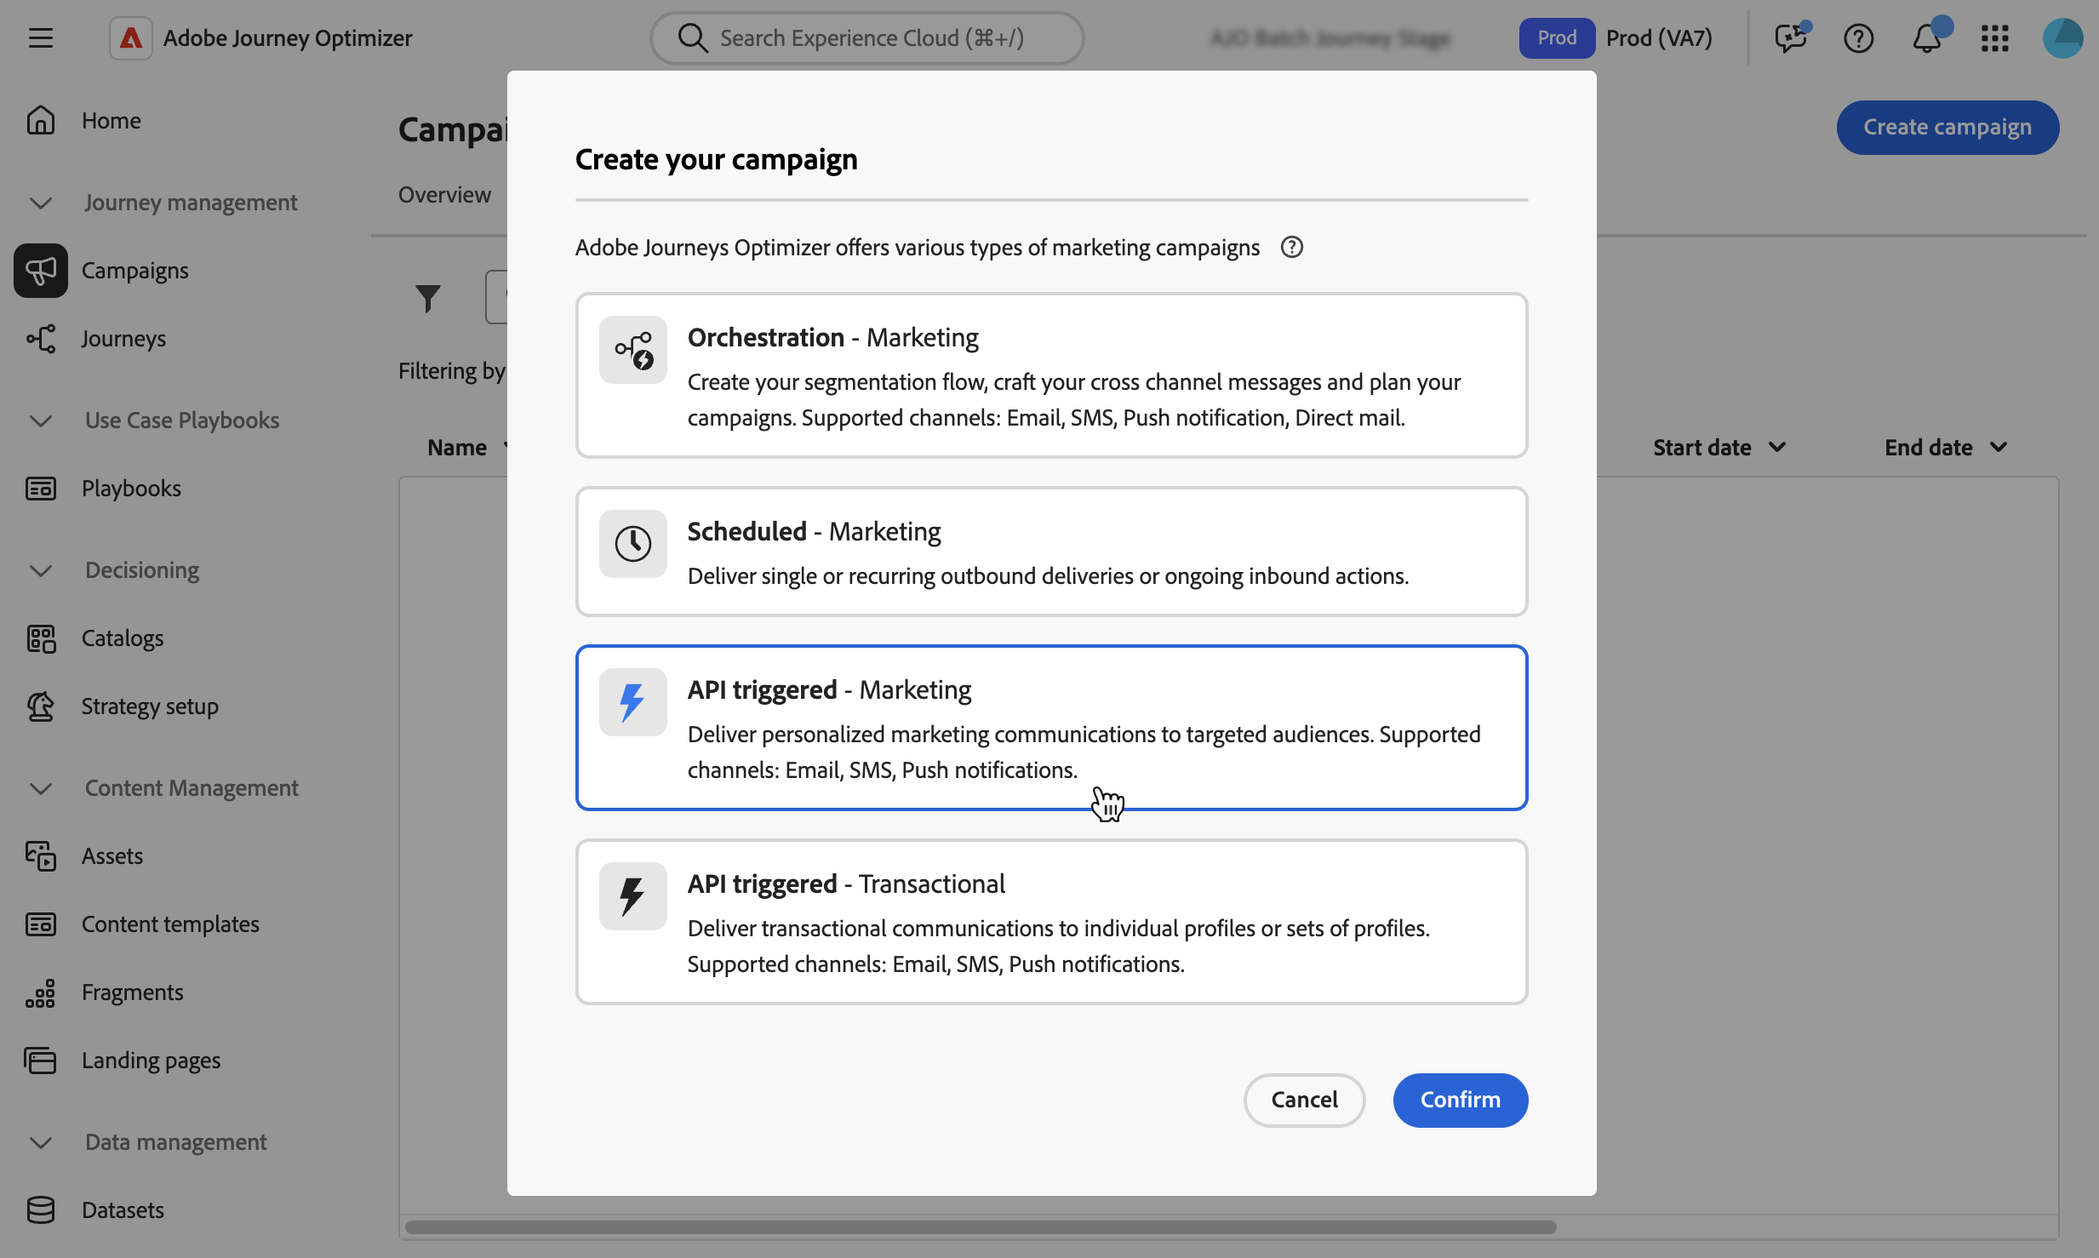
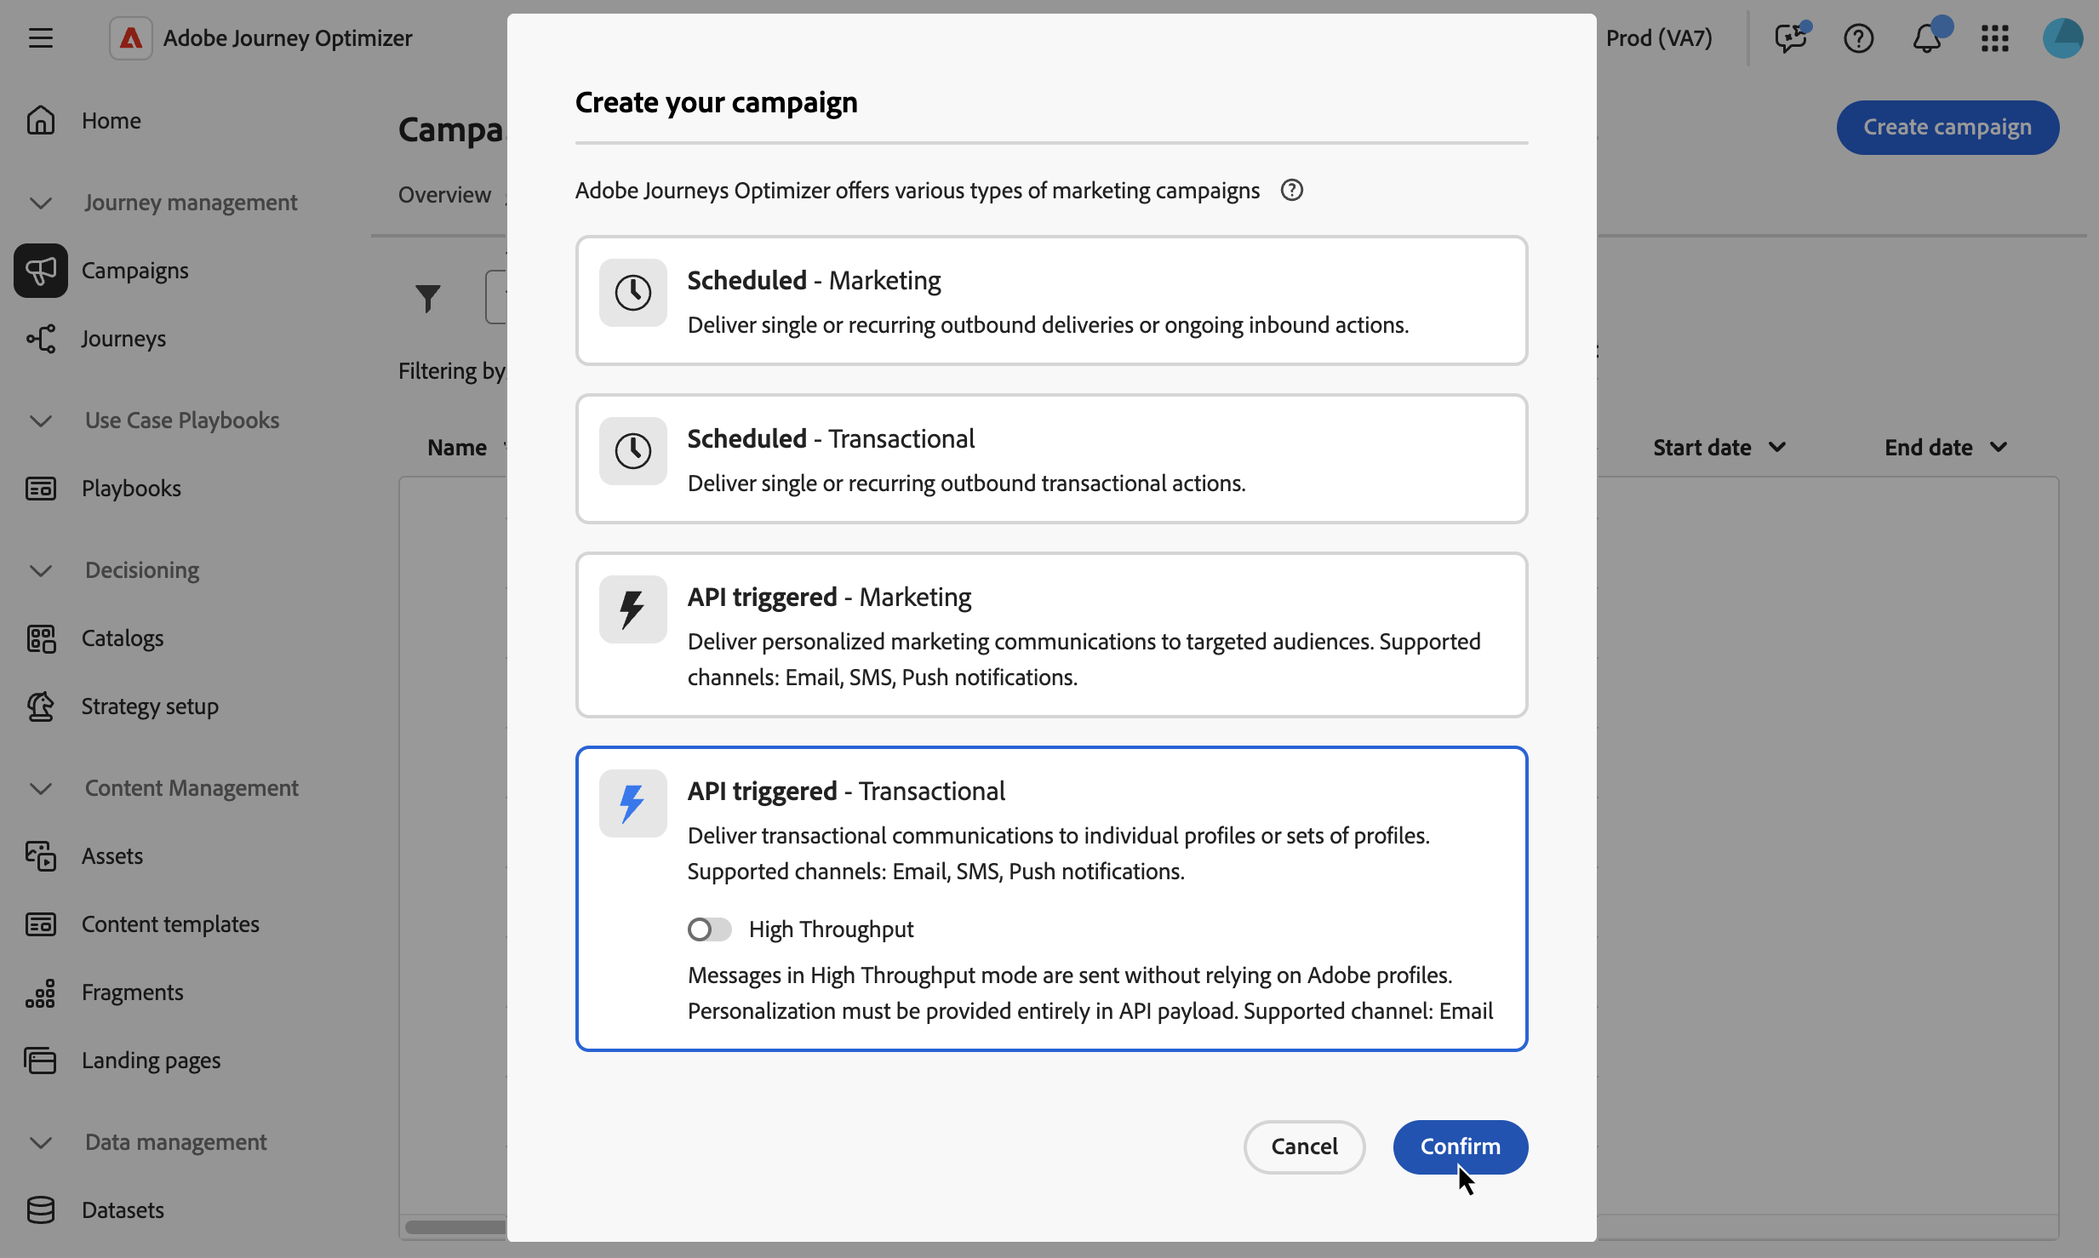
Docac 11522 api triggered throughput (#2104)
* update doc

* fix

* update

* fix

* add note

* correct api doc

* update

* update

* updates

* update

* update

* PM feedback

* update

* update

* fix

* update note

* feedback

* correct build

* update rn

---------

Changed region(s): [[0.2186, 0.0, 0.7806, 0.9959]]

diff --git a/help/using/campaigns/api-triggered-high-throughput.md b/help/using/campaigns/api-triggered-high-throughput.md
@@ -1,0 +1,77 @@
+---
+solution: Journey Optimizer
+product: journey optimizer
+title: Activate High throughput mode for API triggered campaigns
+description: Learn how to activate the High throughput mode for API triggered campaigns.
+feature: Campaigns, API
+topic: Content Management
+role: Developer
+level: Experienced
+keywords: campaigns, API-triggered, REST, optimizer, messages
+---
+
+# Activate High throughput mode for API triggered campaigns {#high-throughput}
+
+High Throughput mode is designed for organizations that need **very large-scale, real-time transactional messaging** (up to 5000 transactions per second). Unlike regular API triggered campaigns, High throughput campaigns operate independently of Adobe Profiles and require a different configuration model.  
+
+This page explains how High throughput campaigns differ from standard API triggered campaigns, setup requirements, and when to choose each mode.  
+
+## Guardrails & limitations
+
+*  **Access** - Available only in the US region for organizations licensed with the High Throughput transactional messaging add-on.
+
+* **Channels**: Currently available only for email.  
+
+* **Personalization**:  
+
+  * All personalization must be included in the API payload as **contextual data**. [Learn how to personalize content using contextual data](../campaigns/api-triggered-campaign-action.md#contextual) 
+  * Profile-based personalization is not supported. If profile variables are used, validation errors will occur.  
+
+* **API endpoint** - High Throughput campaigns use a different endpoint than standard API triggered campaigns. For details, see [Execute an API triggered campaign](../campaigns/trigger-campaigns.md#trigger).
+
+* **Campaign exclusivity**: High throughput campaigns do not use Adobe Profiles. Messages are delivered whether or not a profile exists.
+
+  Moreover, a campaign cannot be used for both profile-enabled and non-profile use cases. If you need both, create two separate campaigns, and ensure the calling system decides which one to trigger based on the context.
+
+## Choosing between standard vs. High throughput campaigns
+
+Use this table to decide which API triggered campaign type fits your use case:  
+
+| Feature / Requirement | Standard API triggered Campaign | High Throughput Campaign |
+|------------------------|---------------------------------|---------------------------|
+| **Availability** | Included in base offering | Requires High Throughput transactional messaging add-on. |
+| **Throughput** | Up to 500 transactions per second | Up to 5000 transactions per second |
+| **Channels** | Email, SMS, Push | Email |
+| **Personalization** | Profile + contextual in the API payload | Contextual in the API payload only |
+| **Profile & stitching** | Exists or gets created with events stitched to profile | No profile|
+| **Message volume** | Standard entitlement & message packs | Separate tiered message volumes|
+| **Infrastructure** | Standard | Enhanced |
+| **Uptime** | 99,9% | 99,99%|
+| **Health check API** | Yes | Yes |
+
+In other words:
+
+* Choose **Standard API triggered** campaigns if:  
+  * You don’t have High Throughput contracted.  
+  * Your throughput needs are <500 TPS.  
+  * You require personalization based on Adobe Profiles.  
+  * You want campaign data stitched to profiles for future targeting.
+  * You want to use another channel than Email.
+
+* Choose **High throughput** campaigns if:  
+  * You need throughput >500 TPS.  
+  * You don’t require profile stitching.  
+  * You can pass all personalization in the API payload.  
+  * You want to use the Email channel.  
+
+## Setup guidelines
+
+To configure High Throughput campaigns correctly, follow these guidelines: 
+
+1. Create a new IP pool. [Learn how to create IP pools](../configuration/ip-pools.md)
+1. Create a new channel configuration. [Learn how to set up channel configurations](../configuration/channel-surfaces.md)
+1. Contact Adobe Customer Care to request the activated surface to be mapped to the High throughput capability. Provide the channel configuration and IP Pool details along with your organization ID.
+
+>[!IMPORTANT]
+>
+>The IP pool and channel configurations designated for high-throughput transactional messages must be used exclusively for that purpose, and not be used with standard transactional messaging using API triggered campaigns or journeys.

diff --git a/help/using/rn/release-notes.md b/help/using/rn/release-notes.md
@@ -176,7 +176,7 @@ Because of this model, release notes are updated between monthly releases.  A de
 </tbody>
 </table-->
 
-<!--<table>
+<table>
 <thead>
 <tr>
 <th><strong>High throughput messaging for API triggered email campaigns</strong><br/></th>
@@ -185,14 +185,14 @@ Because of this model, release notes are updated between monthly releases.  A de
 <tbody>
 <tr>
 <td>
-<p>A new high throughput transactional messaging mode is available in API triggered campaigns. This mode is designed for large-scale, real-time transactional messaging and supports up to 5,000 transactions per second with higher availability. This mode also supports transactional messages without referencing or creating customer profiles, such as guest checkout, order confirmation, password resets, security notifications, and one-time passwords for two-factor authentication.</p>
+<p>A new high throughput transactional messaging mode is available in API triggered campaigns. This mode is designed for large-scale, real-time transactional messaging and supports up to 5,000 transactions per second with higher availability. This mode also supports transactional messages without referencing or creating customer profiles, such as guest checkout, order confirmation, password resets, security notifications, and other service/operational notications.</p>
 <p>This capability is only available for the email channel, for organizations that have purchased the Adobe High Throughput Transactional Messaging add-on offering. Contact your Adobe representative for more details.</p>
-<p>For more information, refer to the <a href="../campaigns/api-triggered-campaign-action.md">detailed documentation</a>.</p>
+<p>For more information, refer to the <a href="../campaigns/api-triggered-high-throughput.md">detailed documentation</a>.</p>
 <p>Availability date: October 22, 2025</p>
 </td>
 </tr>
 </tbody>
-</table>-->
+</table>
 
 <table>
 <thead>

diff --git a/help/using/campaigns/api-triggered-campaign-content.md b/help/using/campaigns/api-triggered-campaign-content.md
@@ -29,11 +29,15 @@ The content creation process depends on the channel you selected. Learn detailed
 <div align="center"><a href="../push/create-push.md"><strong>Push notification</strong></a></div></td>
 </tr></table>
 
+>[!IMPORTANT]
+>
+>[High Throughput campaigns](../campaigns/api-triggered-high-throughput.md) do not rely on Adobe profiles: all personalization must be included in the API payload as context data, as detailed below. This mode is available only for the email channel andi n the US region.
+
 ## Personalize content using contextual data {#contextual}
 
 You can pass additional data into the API payload that you can leverage to personalize your message.
 
-Let's take this example, where customers want to reset their password, and you want to send them a password reset URL that is generated in a third-party tool. With API-triggered campaigns, you can pass this generated URL into the API payload, and leverage it into the campaign to add it into the message.
+Let's take this example, where customers want to reset their password, and you want to send them a password reset URL that is generated in a third-party tool. With API triggered campaigns, you can pass this generated URL into the API payload, and leverage it into the campaign to add it into the message.
 
 To do this, you need to pass them into the API payload, and add them in your message using the personalization editor. Use the `{{context.<contextualAttribute>}}` syntax, where `<contextualAttribute>` should match the name of the variable in your API payload containing the data that you want to pass.
 

diff --git a/help/using/campaigns/get-started-with-campaigns.md b/help/using/campaigns/get-started-with-campaigns.md
@@ -51,7 +51,7 @@ exl-id: e2506a43-e4f5-48af-bd14-ab76c54b7c90
 >[!CONTEXTUALHELP]
 >id="ajo_campaigns_campaign_type"
 >title="Campaign type"
->abstract="Select the type of campaign. Available channels vary depending on the selected type. <br>**Scheduled campaigns** (Action campaigns) – Ideal for simple, one-off batch communications that you can schedule to run at a specific time.<br>**API-triggered campaigns** – Activated through an API call, enabling automated, event-based messaging directly from external systems.<br>**Orchestrated campaigns** – Provide a visual, drag-and-drop canvas to design and automate complex, multi-step marketing workflows, from audience segmentation to personalized message delivery across channels."
+>abstract="Select the type of campaign. Available channels vary depending on the selected type. <br>**Scheduled campaigns** (Action campaigns) – Ideal for simple, one-off batch communications that you can schedule to run at a specific time.<br>**API triggered campaigns** – Activated through an API call, enabling automated, event-based messaging directly from external systems.<br>**Orchestrated campaigns** – Provide a visual, drag-and-drop canvas to design and automate complex, multi-step marketing workflows, from audience segmentation to personalized message delivery across channels."
 
 >[!CONTEXTUALHELP]
 >id="ajo_campaigns_create_orchestration"

diff --git a/help/using/campaigns/api-triggered-campaign-properties.md b/help/using/campaigns/api-triggered-campaign-properties.md
@@ -22,8 +22,20 @@ To create a new API triggered campaign, follow these steps:
 
     * **[!UICONTROL API triggered - Transactional]** - Transactional campaigns are aimed at sending transactional messages, i.e. messages sent out following an action performed by an individual: password reset request, cart purchase, etc.
 
+        +++High Throughput mode
+
+        For transactional API triggered campaigns, you can enable **[!UICONTROL High Throughput]** mode. This mode is designed for large-scale, real-time messaging (up to 5000 transactions per second) and provides higher availability with lower latency. [Learn how to work with the Highthrouput mode](../campaigns/api-triggered-high-throughput.md)
+        
+        >[!AVAILABILITY]
+        >
+        >Currently, High Throughput mode is available only for the email channel and in the US region.
+        >
+        >This capability is only available for organizations that have purchased the Adobe **High throughput transactional messaging** add-on offering. Contact your Adobe representative for more details.
+
+        +++
+
     ![](assets/api-triggered-modal.png)
- 
+
 1. In the **[!UICONTROL Properties]** tab, enter a name and a description for your campaign.
 
     ![](assets/create-campaign-properties.png)

diff --git a/help/using/conflict-prioritization/channel-capping.md b/help/using/conflict-prioritization/channel-capping.md
@@ -110,7 +110,7 @@ To apply a rule set to a message, follow these steps:
 
 1. Before activating your journey or campaign, make sure you schedule its execution at least 10 minutes into the future.
 
-   This allows for sufficient time to populate the counter values on the profile for the business rule you selected. If you activate the campaign immediately, the rule set counter values will not populate on the profiles of the recipients, and the message will not be counted toward their frequency capping rules for the custom rule sets. In addition, the capping may not work correctly for journeys and campaigns activated immediately and API-triggered campaigns.
+   This allows for sufficient time to populate the counter values on the profile for the business rule you selected. If you activate the campaign immediately, the rule set counter values will not populate on the profiles of the recipients, and the message will not be counted toward their frequency capping rules for the custom rule sets. In addition, the capping may not work correctly for journeys and campaigns activated immediately and API triggered campaigns.
 
    ![](assets/rule-set-schedule-campaign.png)
 

diff --git a/help/using/campaigns/api-triggered-campaign-action.md b/help/using/campaigns/api-triggered-campaign-action.md
@@ -22,7 +22,7 @@ Use the **[!UICONTROL Actions]** tab to select a channel configuration for your 
 
     >[!NOTE]
     >
-    >Supported channels are: [Email](../email/get-started-email.md), [SMS/MMS/RCS](../sms/get-started-sms.md), [Push notifications](../push/get-started-push.md).
+    >Supported channels are: [Email](../email/get-started-email.md), [SMS](../sms/get-started-sms.md), [Push notifications](../push/get-started-push.md). High Throughput API triggered campaigns currently support the email channel only.
     >
     >Available channels vary based on your licensing model and add-ons.
 
@@ -30,7 +30,7 @@ Use the **[!UICONTROL Actions]** tab to select a channel configuration for your 
 
     A configuration is defined by a [System Administrator](../start/path/administrator.md). It contains all the technical parameters for sending the message, such as header parameters, subdomain, mobile apps, etc. [Learn how to set up channel configurations](../configuration/channel-surfaces.md)
     
-    ![](assets/create-campaign-action.png)
+    ![](assets/api-triggered-create-campaign-action.png)
 
 1. **Leverage Optimization**
 

diff --git a/help/using/campaigns/trigger-campaigns.md b/help/using/campaigns/trigger-campaigns.md
@@ -27,6 +27,10 @@ Once your campaign has been activated, you need to retrieve the generated sample
 
     ![](assets/api-triggered-curl.png)
 
-1. Use this cURL request into the APIs to build your payload and trigger the campaign. For more information, refer to the [Interactive Message Execution API documentation](https://developer.adobe.com/journey-optimizer-apis/references/messaging/#tag/execution).
+    >[!IMPORTANT]
+    >
+    >The endpoints in the cURL section differ between standard and [High throughput campigns](../campaigns/api-triggered-high-throughput.md).
+
+1. Use this cURL request into the APIs to build your payload and trigger the campaign. For more information, refer to the [Interactive Message Execution API documentation](https://developer.adobe.com/journey-optimizer-apis/references/messaging/#tag/execution), where all endpoints for standard and High throughput campaigns are listed.
 
     API call examples are also available on [this page](https://developer.adobe.com/journey-optimizer-apis/references/messaging-samples/).

diff --git a/help/using/campaigns/api-triggered-campaigns.md b/help/using/campaigns/api-triggered-campaigns.md
@@ -24,14 +24,11 @@ API triggered campaigns allow either for marketing communications to reach out t
 
 To do this, you first need to create an API triggered campaign in Journey Optimizer, and then launch its execution through an API call using the [Interactive Message Execution REST API](https://developer.adobe.com/journey-optimizer-apis/references/messaging/#tag/execution).
 
-Available channels for API-triggered campaigns are Email, SMS and Push messages.
-
 ➡ [Discover this feature in video](#video) 
-
 
 >[!NOTE]
 >
->Supported channels are: [Email](../email/get-started-email.md), [SMS/MMS/RCS](../sms/get-started-sms.md), [Push notifications](../push/get-started-push.md).
+>Supported channels are: [Email](../email/get-started-email.md), [SMS](../sms/get-started-sms.md), [Push notifications](../push/get-started-push.md). High Throughput API triggered campaigns currently support the email channel only.
 >
 >Available channels vary based on your licensing model and add-ons.
 

diff --git a/help/using/campaigns/api-triggered-campaign-audience.md b/help/using/campaigns/api-triggered-campaign-audience.md
@@ -44,6 +44,8 @@ To activate profile creation at campaign execution, toggle the **[!UICONTROL Cre
 >This option is provided for **very small volume profile creation** in a large volume transactional sending use case, with bulk of profiles already existing in platform.
 >
 >Unknown profiles are created in the **AJO Interactive Messaging Profile Dataset** dataset, in three default namespace (email, phone and ECID) respectively for each outbound channels (Email, SMS and Push). However, if you are using a custom namespace, the identity is created with the same custom namespace.
+>
+>Profile creation at execution is not available for [High Throughput campaigns](../campaigns/api-triggered-high-throughput.md), as this mode do not rely on Adobe profiles: The system won't check if the profiles exist or not.
 
 ## Enable webhooks {#webhook}
 

diff --git a/help/using/campaigns/manage-campaigns.md b/help/using/campaigns/manage-campaigns.md
@@ -72,7 +72,7 @@ For Action and API triggered campaigns, the additional actions below are availab
 
 ## Campaign lifecycle {#statuses}
 
-In Adobe Journey Optimizer, each campaign moves through a lifecycle that is reflected by its status in the interface. The available statuses vary depending on the type of campaign—Action, API-triggered, or Orchestrated. Use the tabs below to explore the lifecycle and statuses specific to each campaign type.
+In Adobe Journey Optimizer, each campaign moves through a lifecycle that is reflected by its status in the interface. The available statuses vary depending on the type of campaign — Action, API triggered, or Orchestrated. Use the tabs below to explore the lifecycle and statuses specific to each campaign type.
 
 >[!BEGINTABS]
 

diff --git a/help/TOC.md b/help/TOC.md
@@ -225,6 +225,7 @@ solution: Journey Optimizer
     + [Schedule the campaign](using/campaigns/api-triggered-campaign-schedule.md)
     + [Review & activate the campaign](using/campaigns/review-activate-api-triggered-campaign.md)
     + [Trigger the campaign execution](using/campaigns/trigger-campaigns.md)
+    + [Activate High throughput mode for API triggered campaigns](using/campaigns/api-triggered-high-throughput.md)
   + Orchestrated campaigns {#orchestrated-campaigns}
     + [Orchestrated campaigns](/help/rp_landing_pages/orchestrated-campaigns-landing-page.md)
     + [Get started with Orchestrated campaigns](using/orchestrated/gs-orchestrated-campaigns.md)
